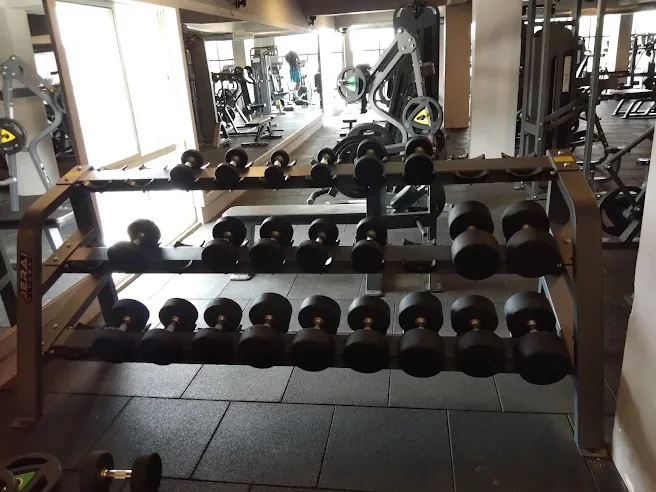
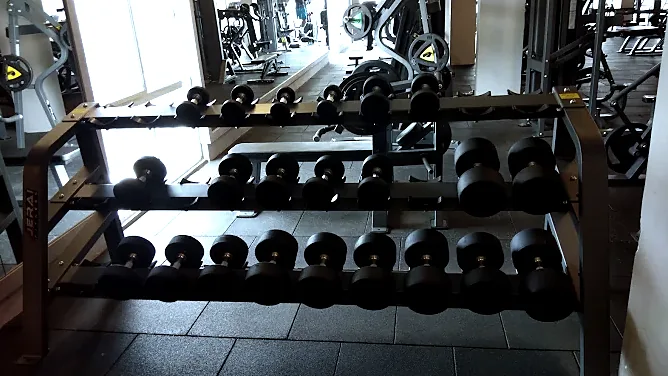
Recrop the floor photos to 16:9 and grade them to one dark look
The rows ran a 4:3 photo beside the text at roughly 45% of the width.
They are 16:9 now and take close to two thirds, and the section moved
to the wide container, so the photo reads as the subject and the text
as its caption.

The frames also came from two different worlds: the phone shots were
bright and warm, the locker and bag frames dark and moody. Every one
now goes through the same pass, which neutralises the colour cast,
adds a cool bias, deepens the shadows on an S-curve, eases the
saturation back and lands the exposure last. Mean luminance across the
eight went from a 67 to 115 spread down to 60 to 88, and blue now sits
above red in all of them.

The phone frames are only around 670px wide, so they are shown well
past their native size and carry a light unsharp mask to hold up.

diff --git a/public/assets/css/components.css b/public/assets/css/components.css
@@ -563,7 +563,7 @@ html:not(.js) .hero__video[data-hero-clip="0"] {
 
 .row-item__media {
   margin: 0;
-  aspect-ratio: 4 / 3;
+  aspect-ratio: 16 / 9;
   overflow: hidden;
   background: var(--surface);
   border: 1px solid var(--rule);
@@ -582,9 +582,10 @@ html:not(.js) .hero__video[data-hero-clip="0"] {
 }
 
 @media (min-width: 60em) {
-  /* number | text | photo, with the photo taking close to half the row. */
+  /* number | text | photo. The photo takes roughly two thirds of the row so
+     it reads as the subject and the text as its caption. */
   .rows--gallery .row-item {
-    grid-template-columns: 3.5rem minmax(0, 1fr) minmax(0, 0.85fr);
+    grid-template-columns: 3.5rem minmax(0, 0.8fr) minmax(0, 1.5fr);
   }
 
   .rows--gallery .row-item__body {
@@ -599,7 +600,7 @@ html:not(.js) .hero__video[data-hero-clip="0"] {
 
   /* Flipped rows swap the two, so the photo leads. */
   .rows--gallery .row-item--flip {
-    grid-template-columns: 3.5rem minmax(0, 0.85fr) minmax(0, 1fr);
+    grid-template-columns: 3.5rem minmax(0, 1.5fr) minmax(0, 0.8fr);
   }
 
   .rows--gallery .row-item--flip .row-item__media {

diff --git a/public/index.html b/public/index.html
@@ -192,7 +192,7 @@
 
   <!-- ===== facilities ===== -->
   <section class="section section--ruled">
-    <div class="container">
+    <div class="container container--wide">
       <div class="section__head" data-reveal>
         <div>
           <span class="eyebrow">The floor</span>
